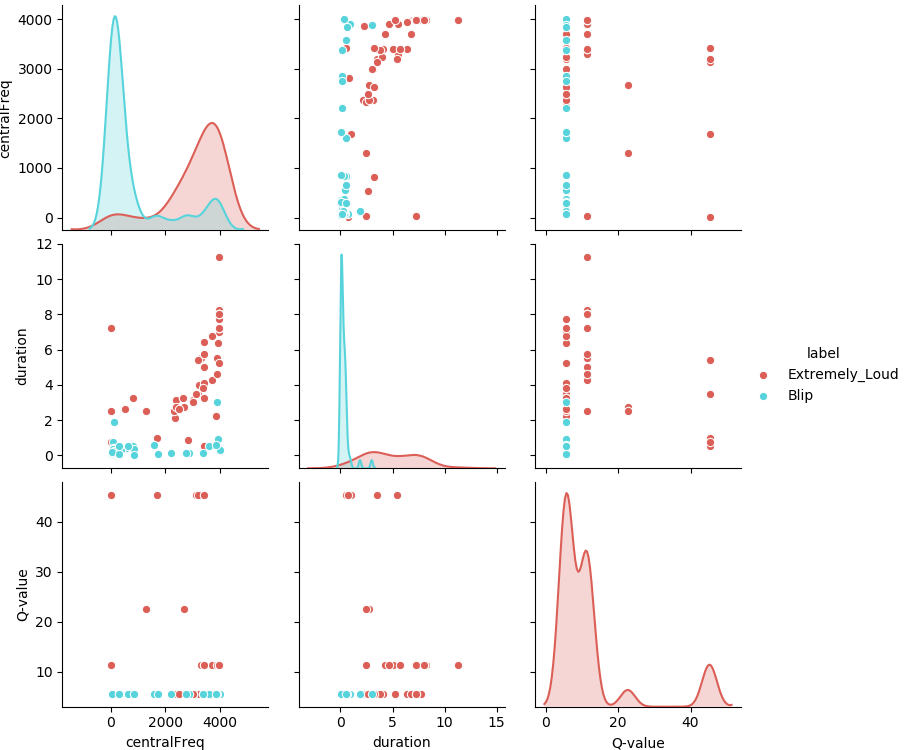
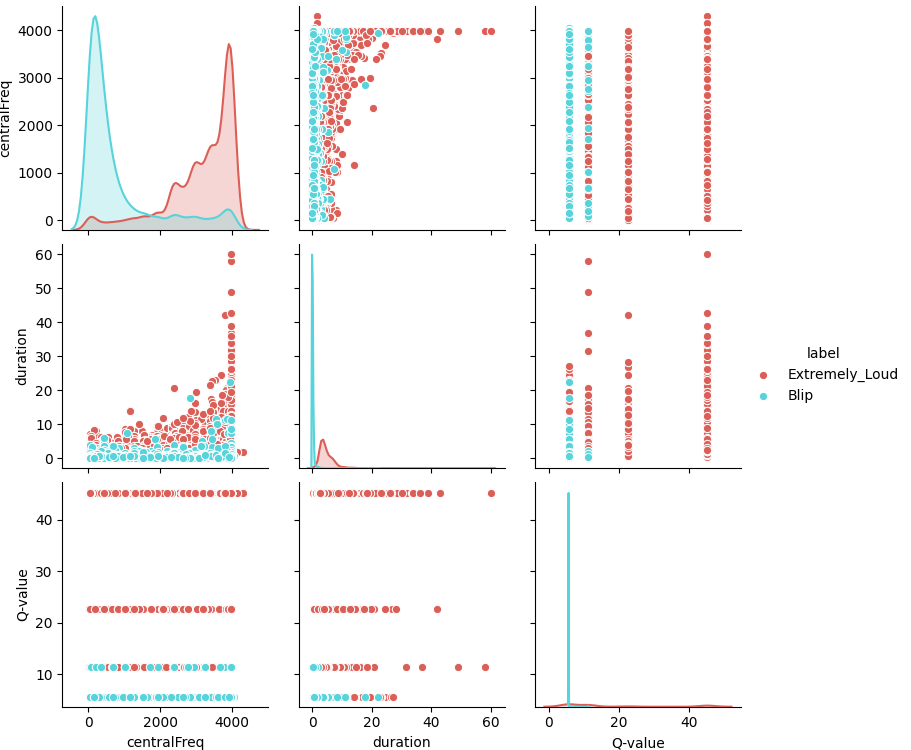
patched simplify implementation fully; added confidence check option; new timer decorator; various code readability improvements + comment updates; things I am probably forgetting

diff --git a/main.py b/main.py
@@ -1,9 +1,9 @@
-#IMPORTS
-#import external packages
-import numpy as np
+# IMPORTS
+# import external packages
+# import numpy as np
 import pandas as pd
 
-#import local modules
+# import local modules
 from analysis import pca
 from analysis import tsne
 from plot import pcaViz
@@ -11,60 +11,89 @@ from plot import tsneViz
 from plot import pairplot
 from simplify import simplify
 
-#DATA PREPARATION
-#define the data filename
-filename = 'data/gspy_o3a.csv' #your file here with a .csv ending
+# DATA PREPARATION
+# ask if the user wants to use gspy_o3a or gspy_o3b
+query = input("Would you like to analyze the o3a or o3b data set? (a/b): ")
+# make sure the user inputted either "a" or "b"
+assert query == "a" or query == "b", "You must input either \"a\" or \"b\""
+# define file path to particular dataset
+filename = f"data/gspy_o3{query}.csv"
 
-#ask if the user wants to run the simplify pipeline
-query = input('Would you like to run the simplify data preparation pipeline? (y/n)\n')
+# ask if the user wants to run the simplify pipeline
+query = input("Would you like to run the simplify data preparation pipeline? (y/n): ")
 
-#test if the user wants to run simplify
-if query == 'y':
-    #if so, also ask for the desired sample number
-    query = input('Please enter the desired sample size\n')
-    #get the df output from simplify and store it in mainDf
-    mainDf = simplify.simplify_csv(filename, int(query))
-#data preparation if simplify pipeline is not run
+# test if the user wants to run simplify
+if query == "y":
+    # if so, also ask for the desired sample number (and convert str to int)
+    n = int(input("Please enter the desired sample size: "))
+    # asks if a file should be saved
+    query = input("Woud you like to save the simplified data set to a file? (y/n): ")
+    if query == "y":
+        # if so, set save_to_file parameter to True
+        save = True
+        # also, ask for an output filename
+        simplified_filename = input("Output CSV filename: ")
+    else:
+        # otherwise, save_to_file parameter = None
+        save = False
+        # and we need no file name (equating this to None is implicitly tells simplify_csv to not process it)
+        simplified_filename = None
+    # get the df output from simplify and store it in mainDf
+    rawDf = simplify.simplify_csv(filename, int(n), csv_out=simplified_filename, save_to_file=save)
+# data preparation if simplify pipeline is not run
 else:
-    #read the csv file into a dataframe
+    # read the csv file into a dataframe
     rawDf = pd.read_csv(filename)
-    #define the list of columns that we want to drop
-    #note the inclusion of peakFreq and amplitude (original TSNE plot we have did not account for these)
-    dropList = ['chisq','chisqDof','confidence','GPStime','ifo','imgUrl','id']
-    #drop the columns we don't need
-    mainDf = rawDf.drop(columns=dropList)
 
-#features only!
-pcaDf = mainDf.drop(columns='label')
+# define the list of columns that we want to drop
+# note the inclusion of peakFreq and amplitude (original TSNE plot we have did not account for these)
+dropList = ["chisq", "chisqDof", "GPStime", "ifo", "imgUrl", "id"]
+# drop the columns we don"t need
+mainDf = rawDf.drop(columns=dropList)
 
-#DATA ANALYSIS
-#PCA
-#find the top three principal components and return them as columns of mainDf
+# ask if the user wants a minimum confidence rating
+query = input("Would you like to drop data entries below a particular GSpy confidence rating? (y/n): ")
+if query == "y":
+    # if so, ask for the desired minimum (and convert str to float)
+    n = float(input("Minimum confidence rating (decimal between 0 and 1 inclusive): "))
+    # filter mainDF for the minimum
+    mainDf = mainDf[mainDf["confidence"] >= n]
+
+# ultimately, drop confidence column
+mainDf.drop(columns="confidence")
+print(f"Final data set has {len(mainDf)} total entries.")
+
+# features only!
+pcaDf = mainDf.drop(columns="label")
+
+# DATA ANALYSIS
+# PCA
+# find the top three principal components and return them as columns of mainDf
 pca.PCA3(pcaDf, mainDf)
 
-#T-SNE
-#TODO: update t-sne to run on all features
-#TODO: look into optimization
-#Very computationally intensive! Likely will not run on average laptop!
-#runs T-SNE on the top three principal components and returns the results as columns of mainDf
-#keep the following line commented out to not run tsne
-#tsne.tsnePCA3(mainDf)
+# T-SNE
+# TODO: update t-sne to run on all features
+# TODO: look into optimization
+# Very computationally intensive! Likely will not run on average laptop!
+# runs T-SNE on the top three principal components and returns the results as columns of mainDf
+# keep the following line commented out to not run tsne
+tsne.tsnePCA3(mainDf)
 
-#DATA VISUALIZATION
-#PCA
-#visualizes the datatset using the top two principal components
+# DATA VISUALIZATION
+# PCA
+# visualizes the datatset using the top two principal components
 pcaViz.viz(mainDf)
 
-#T-TSNE
-#visualizes the dataset using the t-sne results
-#keep commented out if you haven't uncommented the t-sne section
-#tsneViz.viz(mainDf)
+# T-TSNE
+# visualizes the dataset using the t-sne results
+# keep commented out if you haven"t uncommented the t-sne section
+tsneViz.viz(mainDf)
 
-#Pairplots
-#TODO: Include functionality for an easier way to do an aggregate pairplot
-#creates a pairplot for the specified lists of glitch(es) and features
-glitches = ['Extremely_Loud','Blip']
-features = ['centralFreq', 'duration', 'Q-value']
+# Pairplots
+# TODO: Include functionality for an easier way to do an aggregate pairplot
+# creates a pairplot for the specified lists of glitch(es) and features
+glitches = ["Extremely_Loud", "Blip"]
+features = ["centralFreq", "duration", "Q-value"]
 pairplot.pPlot(mainDf, glitches, features)
 
 print("Done!")

diff --git a/simplify/simplify.py b/simplify/simplify.py
@@ -1,44 +1,46 @@
-import pandas
+# IMPORTS
+# import external packages
+import pandas as pd
 import os
 
 
-# Columns we do not use
-drop_cols = ["chisq", "chisqDof", "confidence", "GPStime", "ifo", "imgUrl", "id"]
+def simplify_csv(csv_in: str, n: int, csv_out: str = "csv_out.csv", save_to_file: bool = False):
 
-
-def simplify_csv(csv_in: str, n: int, csv_out: str = "csv_out.csv", save_to_file: bool = True):
-
-    # Make sure input variables are correct
+    # make sure input variables are correct
     assert csv_in.split(".")[-1] == "csv", "csv_in must be a path to a CSV file"
-    assert csv_out.split(".")[-1] == "csv", "csv_out must be a path to a CSV file"
+    if save_to_file:
+        assert csv_out is not None, "to save to a file, csv_out must not be None"
+    if csv_out is not None:  # if csv_out is None, implicitly understand that a file is not being saved
+        assert csv_out.split(".")[-1] == "csv", "csv_out must be a path to a CSV file"
     assert os.path.exists(csv_in), "CSV file path does not exist"
 
-    # Load CSV into panda data frame, dropping unnecessary columns
-    data = pandas.read_csv(csv_in).drop(columns=drop_cols)
-    # Initialize output data frame
-    output = pandas.DataFrame()
+    # load CSV into panda data frame
+    data = pd.read_csv(csv_in)
+    # initialize output data frame
+    output = pd.DataFrame()
 
-    # Get list of all labels
+    # get list of all labels
     glitch_labels = data["label"].unique()
 
-    # Iterate through glitches
+    # iterate through glitches
     for i, glitch in enumerate(glitch_labels, start=1):
-        # Extract all rows with particular glitch
+        # extract all rows with particular glitch
         glitch_rows = data[data["label"] == glitch]
 
         try:
-            # Try to extract n rows
+            # try to extract n rows
             new_rows = glitch_rows.sample(n)
         except ValueError:
-            # If n is too high, return all rows
+            # if n is too high, return all rows
             new_rows = glitch_rows
 
-        # Append new rows to output data frame
+        # append new rows to output data frame
         output = output.append(new_rows)
-        # Print success message
-        # print(f"{i}. Generated {len(new_rows)} (of {len(glitch_rows)}) rows for {glitch}.")
+        # print success message
+        print(f"{i}. Extracted {len(new_rows)} (of {len(glitch_rows)}) rows for {glitch}.")
+    print(f"The simplified data set has {len(output)} total entries.")
 
-    # Save output data frame to csv
+    # save output data frame to csv
     if save_to_file:
         output.to_csv(csv_out)
 

diff --git a/analysis/pca.py b/analysis/pca.py
@@ -1,10 +1,17 @@
+# IMPORTS
+# import external packages
 from sklearn.decomposition import PCA
 
+# import local modules
+from decorators.timer import time_func
+
+
+@time_func
 def PCA3(pcaDf, mainDf):
     pca = PCA(n_components=3)
     pca_result = pca.fit_transform(pcaDf)
 
-    mainDf['pca-one'] = pca_result[:,0]
-    mainDf['pca-two'] = pca_result[:,1]
-    mainDf['pca-three'] = pca_result[:,2]
-    print('Explained variation per principal component: {}'.format(pca.explained_variance_ratio_))
+    mainDf["pca-one"] = pca_result[:, 0]
+    mainDf["pca-two"] = pca_result[:, 1]
+    mainDf["pca-three"] = pca_result[:, 2]
+    print("Explained variation per principal component: {}".format(pca.explained_variance_ratio_))

diff --git a/analysis/tsne.py b/analysis/tsne.py
@@ -1,10 +1,15 @@
+# IMPORTS
+# import external packages
 from sklearn.manifold import TSNE
 import time
 
+# import local modules
+from decorators.timer import time_func
+
+
+@time_func
 def tsnePCA3(mainDf):
-    time_start = time.time()
     tsne = TSNE(n_components=2, verbose=0, perplexity=40, n_iter=300)
-    tsne_pca_results = tsne.fit_transform(mainDf.iloc[:,[8,9,10]])
-    print('t-SNE done! Time elapsed: {} seconds'.format(time.time()-time_start))
-    mainDf['tsne-one'] = tsne_pca_results[:,0]
-    mainDf['tsne-two'] = tsne_pca_results[:,1]
+    tsne_pca_results = tsne.fit_transform(mainDf.iloc[:, [8, 9, 10]])
+    mainDf["tsne-one"] = tsne_pca_results[:, 0]
+    mainDf["tsne-two"] = tsne_pca_results[:, 1]

diff --git a/decorators/timer.py b/decorators/timer.py
@@ -1,0 +1,14 @@
+# IMPORTS
+# import external packages
+from time import time
+
+
+def time_func(func):
+    def wrapper(*args, **kwargs):
+        print(f"\n{func.__name__} execution began...")
+        start = time()
+        val = func(*args, **kwargs)
+        end = time()
+        print(f"{func.__name__} execution finished in {end - start} seconds.\n")
+        return val
+    return wrapper

diff --git a/plot/pairplot.py b/plot/pairplot.py
@@ -1,7 +1,10 @@
+# IMPORTS
+# import external packages
 import matplotlib.pyplot as plt
 import seaborn as sns
 
 plt.figure(figsize=(16,10))
+
 
 def pPlot(mainDf, glitches, features):
     pDf = mainDf[mainDf.label.isin(glitches)]

diff --git a/plot/pcaViz.py b/plot/pcaViz.py
@@ -1,7 +1,10 @@
+# IMPORTS
+# import external packages
 import matplotlib.pyplot as plt
 import seaborn as sns
 
-plt.figure(figsize=(16,10))
+plt.figure(figsize=(16, 10))
+
 
 def viz(mainDf):
     sns.scatterplot(

diff --git a/plot/tsneViz.py b/plot/tsneViz.py
@@ -1,7 +1,10 @@
+# IMPORTS
+# import external packages
 import matplotlib.pyplot as plt
 import seaborn as sns
 
-plt.figure(figsize=(16,10))
+plt.figure(figsize=(16, 10))
+
 
 def viz(mainDf):
     sns.scatterplot(
